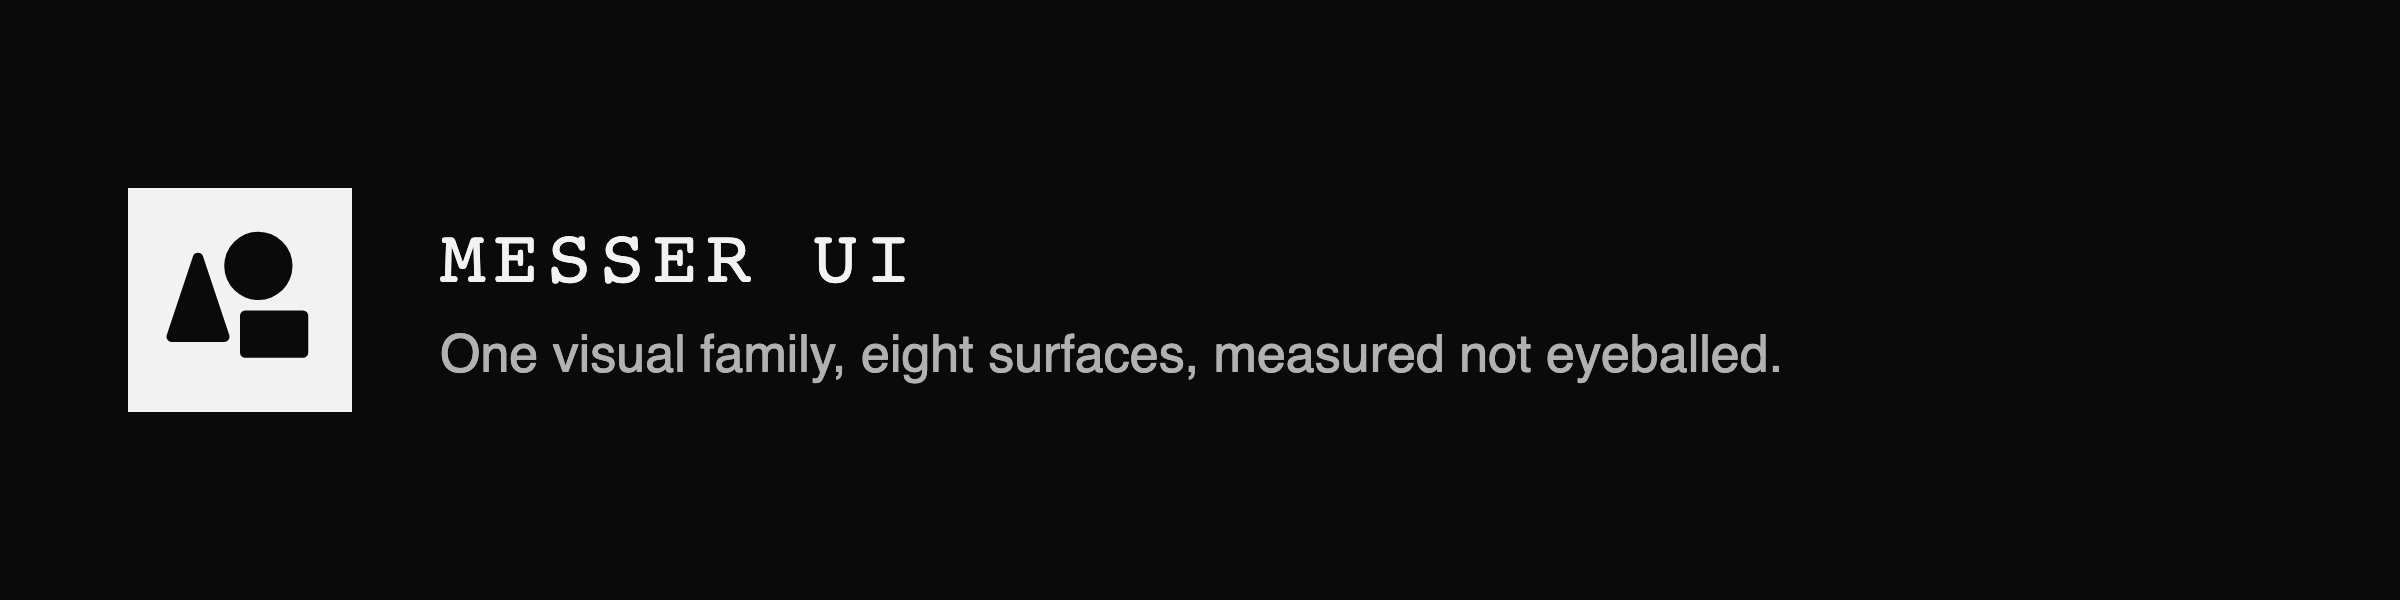
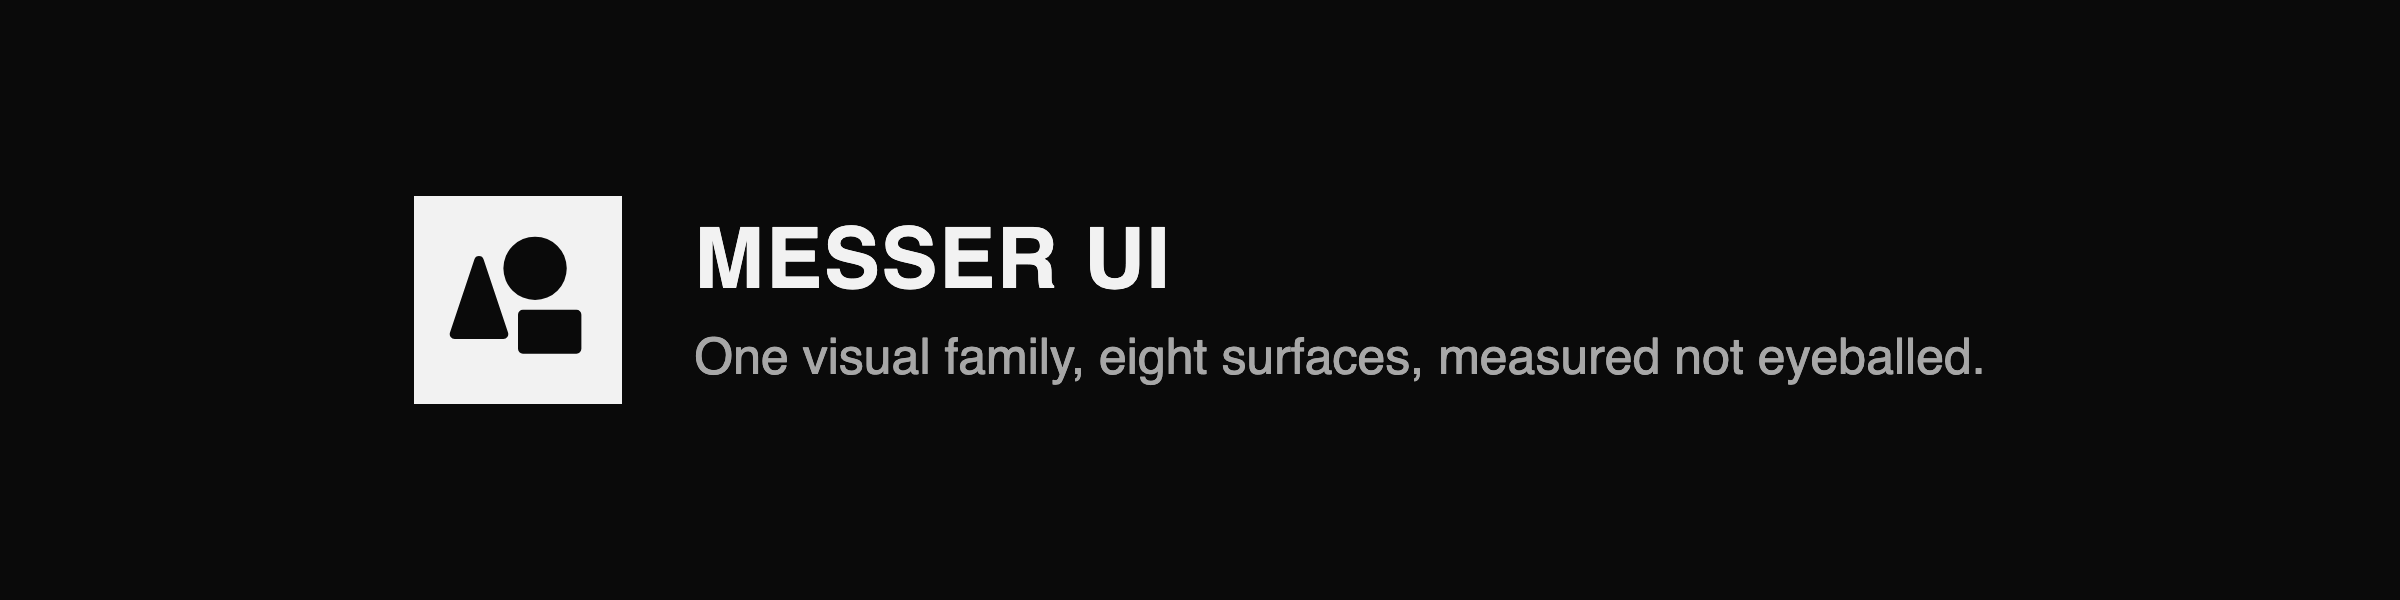
feat(canon): a centred cover without the mono, and a source pass that stops reading fixtures
The README hero was a left-anchored lockup with the wordmark in JetBrains Mono, which read as a terminal label on a 4:1 cover. It is now centred as a group and set in Golos; the mark, the pitch, the 2400x600 raster rule and the brand fingerprint are unchanged.

check.mjs walked testdata/, fixtures/ and *.test.* as if they shipped: lineup failed on a scraped tickster page and the canon failed on its own kitchen sink. Those paths are input, not a surface. Verified: all four ports plus the canon are green after the change.

Changed region(s): [[0.0312, 0.3, 0.8438, 0.69]]

diff --git a/README.md b/README.md
@@ -20,6 +20,11 @@ port 2  atoms     frozen: compiled .m-* recipes, no JS  request-games (until it 
 port 3  lookalike SwiftUI / Flutter, tokens only        later
 ```
 
+<picture>
+  <source media="(prefers-color-scheme: dark)" srcset="docs/brand/screen-dark.png">
+  <img src="docs/brand/screen-light.png" alt="The kitchen sink: every atom in one page, the oracle each port renders at /ui" width="1200">
+</picture>
+
 ## The ten rules
 
 | # | Rule | Why |
